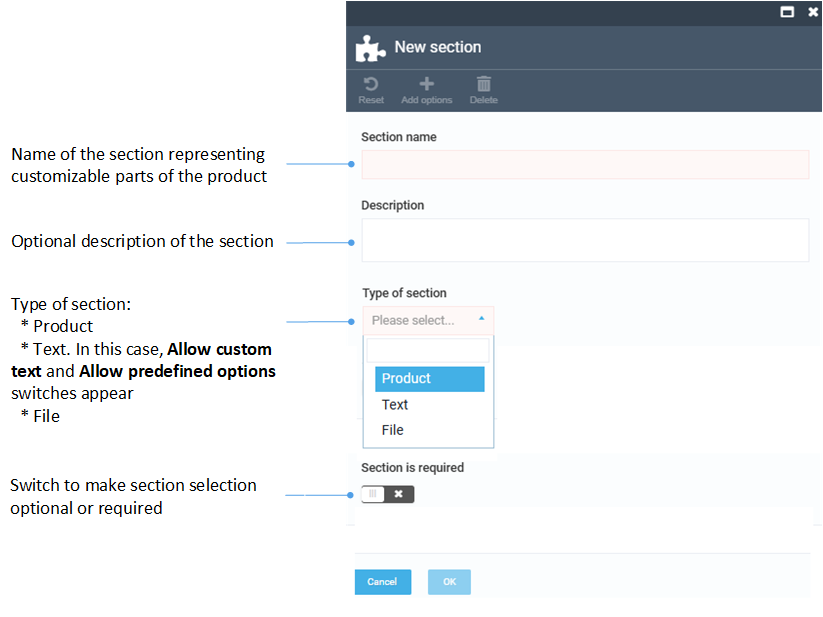
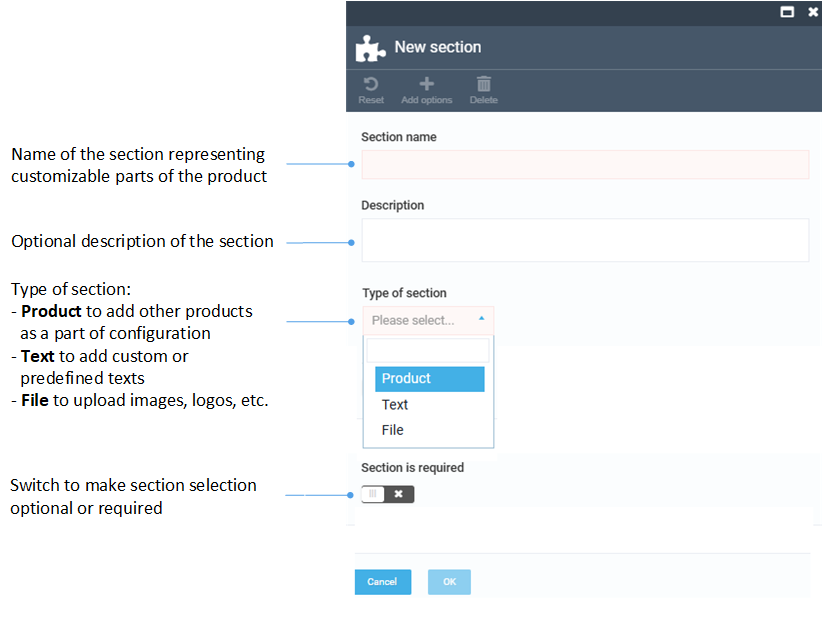
Added: predefined text option for configurable products

Changed region(s): [[0.0, 0.4619, 0.3341, 0.6775]]

diff --git a/platform/user-guide/docs/catalog/managing-product-configurations.md b/platform/user-guide/docs/catalog/managing-product-configurations.md
@@ -72,12 +72,33 @@ To add sections and options:
 
     ![Add sections](media/add-section.png){: style="display: block; margin: 0 auto;" }
 
-1. Click **Add options** in the toolbar.
-1. In the **Select catalog items** blade, check the items to be added as options from the existing catalog:
+    1. Select **Type of section**:
 
-    ![Check options](media/check-options.png){: style="display: block; margin: 0 auto;" }
+        * **Product**: Add another product as part of the configuration by clicking **Add options** in the toolbar.
 
-    * To make an option required, switch this option to on in the section description blade:
+            ![Product type](media/adding-product-type-option.gif)
+
+            The product options appear on the frontend:
+
+            ![Product options](media/product-options.png)
+
+        * **Text**: Enter custom or predefined text.
+
+            ![Text type](media/adding-text-type-option.gif)
+
+            The predefined text appears on the frontend:
+
+            ![Predefined text](media/predefined-text.png)
+
+        * **File**: Upload a file.
+
+            ![File type](media/adding-text-type-option.gif)
+
+            The file upload section appears on the frontend:
+
+            ![Logo upload](media/logo-upload.png)
+
+    1. To make an option required, switch this option to on in the section description blade:
     
         ![Required option on](media/required-option-on.png){: style="display: block; margin: 0 auto;" }
     
@@ -85,7 +106,7 @@ To add sections and options:
 
         ![Required option on Frontend](media/required-option-on-frontend.png){: style="display: block; margin: 0 auto;" }
 
-    * If you switch this option to off, a **None** option automatically appears in the list on the Frontend. This allows users to skip selecting an option for that section when configuring their product:
+      If you switch this option to off, a **None** option automatically appears in the list on the Frontend. This allows users to skip selecting an option for that section when configuring their product:
 
         ![Non-required option](media/none-option.png){: style="display: block; margin: 0 auto;" }
 

diff --git a/storefront/user-guide/docs/shopping/products-purchase-options.md b/storefront/user-guide/docs/shopping/products-purchase-options.md
@@ -22,7 +22,7 @@ In our Frontend Application, buyers have the following options to purchase produ
 
     ![Optional options](../media/optional-options.png){: style="display: block; margin: 0 auto;" }
 
-    In the text message widget, users can enter custom text while personalizing their products. This can be used for messages on postcards, engravings on rings, greetings on cakes, and more:
+    In the text message widget, users can either enter custom text or select from predefined options while personalizing their products. This can be used for messages on postcards, engravings on rings, greetings on cakes, and more:
 
     ![Text message widget](../media/configurable-text.png){: style="display: block; margin: 0 auto;" }
 
